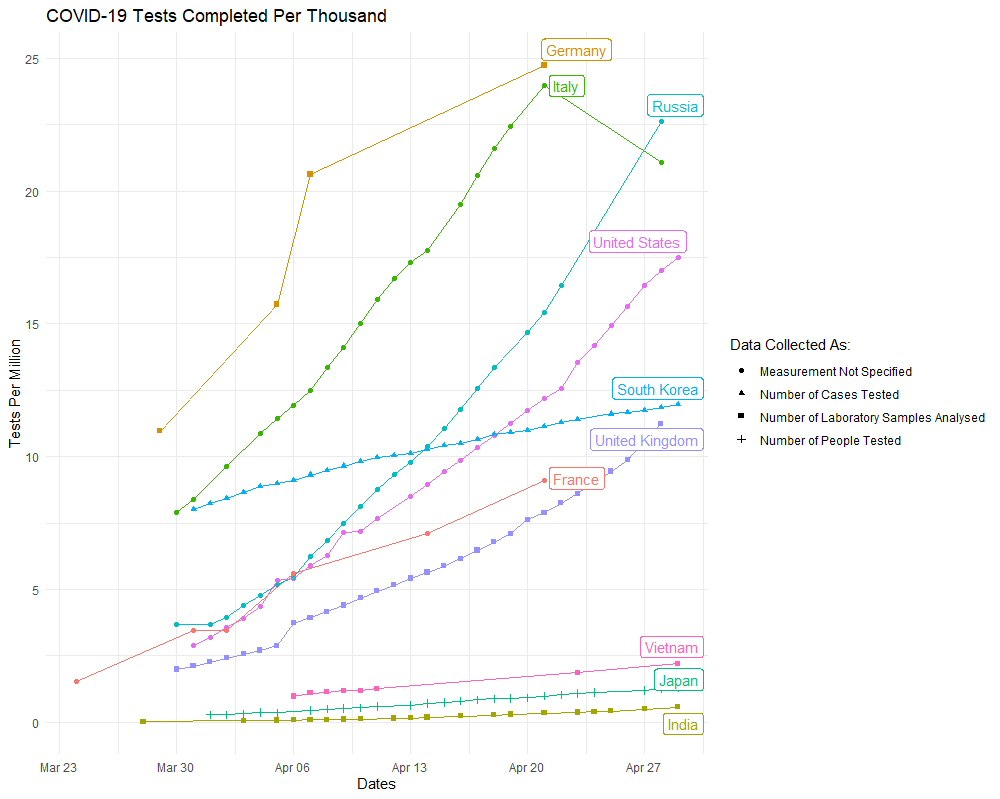
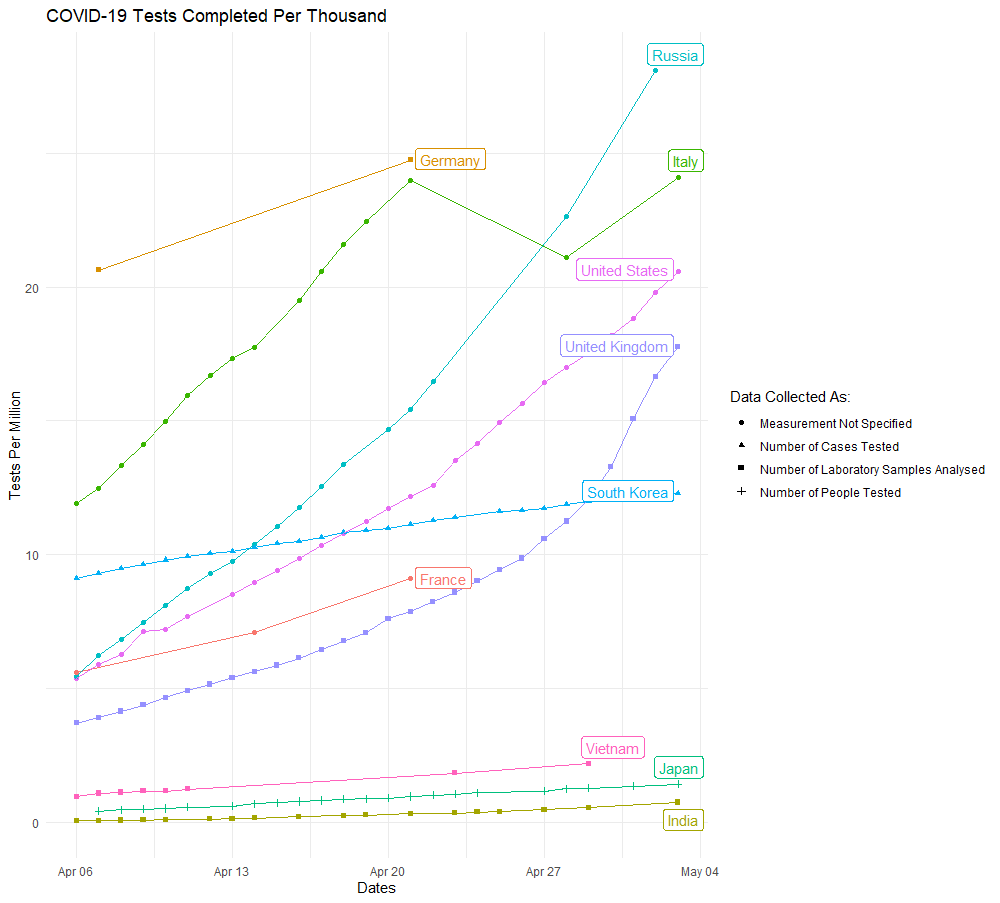
Fixed wrong order columns Fixed Broken code on most websites Need to look at India + Vietnam as still broken + non-scraped websites Australia now not realistic to scrape

diff --git a/Testtrack.py b/Testtrack.py
@@ -10,7 +10,8 @@ except ImportError:
 from PyPDF2 import PdfFileReader
 from googletrans import Translator
 from selenium import webdriver
-from selenium.webdriver.common.keys import Keys
+from selenium.webdriver.common.by import By
+from selenium.webdriver.support import expected_conditions as EC
 from selenium.webdriver.support.ui import WebDriverWait
 
 pytesseract.pytesseract.tesseract_cmd = r'C:\Program Files\Tesseract-OCR\tesseract.exe'
@@ -27,8 +28,7 @@ monthindanish = {
     'juli': 'july'
 }
 # load data, create dictionary
-testdata = pd.read_csv("Testnumbers.csv")
-pages = pd.Series(testdata.Link.values, testdata.Country.values).to_dict()
+
 
 
 # parse dates into datetime and numbers into int
@@ -52,12 +52,12 @@ def TrackChanges(Country):
         soup = BeautifulSoup(page, 'html.parser')
         text = soup.find(id="number-of-cases-and-deaths").next_element.next_element.next_element.string
         testnumber = re.findall('(\d+([\d,]?\d)*(\.\d+)?)', text)[2][0]
-        testdate = re.findall('((\d+) April)', text)[0][0]  # a hack but will work for now
+        testdate = re.findall('((\d+) May)', text)[0][0]  # a hack but will work for now
     if Country == "USA":
         page = urllib.request.urlopen(pages["USA"])
         soup = BeautifulSoup(page, 'html.parser')
         testnumber = soup.find("table").find("tbody").findAll("td")[-1].string
-        testdate = soup.find("div", class_="infobox-module--content--1toLT").string
+        testdate = soup.find("div", class_="infobox-module--content--1toLT").get_text()
     if Country == "SK":
         page = urllib.request.urlopen(pages["SK"])
         soup = BeautifulSoup(page, 'html.parser')
@@ -93,17 +93,20 @@ def TrackChanges(Country):
         page = urllib.request.urlopen(req)
         soup = BeautifulSoup(page, 'lxml')
         testnumber = soup.find("div", class_="fhi-key-figure-number").get_text()
-        testdate = " ".join(soup.find("div", class_="fhi-key-figure-desc").get_text().split(" ")[7:9])
+        print(testnumber)
+        testdate = soup.find("div", class_="fhi-key-figure-updated").get_text()
+        testdate = re.findall('(\d+.*?\d+)', testdate)[0]
+        print(testdate)
     if Country == "DEN":
         page = urllib.request.urlopen(pages["DEN"])
         soup = BeautifulSoup(page, 'html.parser')
         testnumber = soup.findAll("td")[1].get_text()
-        text = ' '.join(soup.findAll("p")[3].get_text().split(" ")[12:14])
-        testdate = ' '.join([monthindanish.get(word, word) for word in text.split()])
+        text = soup.findAll("em")[0].get_text()
+        testdate = search_dates(text)[0][1]
     if Country == "AUST":
         page = urllib.request.urlopen(pages["AUST"])
         soup = BeautifulSoup(page, 'html.parser')
-        text = soup.find("div", class_="table-responsive").find("table").find("tbody").findAll("tr")[-1].findAll("td")[-1].string
+        text = soup.find("div", class_="table-responsive").find("table").findAll("tr")[-1].findAll("td")[-1].get_text()
         print(text)
         testnumber = text
         testdate = soup.find("time").string
@@ -134,14 +137,19 @@ def TrackChanges(Country):
         for test in testnumber:
             if re.match("^[0-9,.]*$", test) != None:
                 testnumber = test
-        testdate = soup.find("p", class_="m-boxInfo__date").find("time")['datetime']
+        #testdate = soup.find("p", class_="m-boxInfo__date").find("time")['datetime']
+        testdate = soup.find("h3", class_="m-hdgLv3__hdg").get_text()
+        testdate = re.findall('（.*?）', testdate)[0] # Japan has different brackets?
+        translator = Translator()
+        testdate = translator.translate(testdate, dest='en').text
+        testdate = search_dates(testdate)[0][1]
     if Country == "CZH":
         page = urllib.request.urlopen(pages["CZH"])
         soup = BeautifulSoup(page, 'html.parser')
         testnumber = soup.find(id="count-test").string
-        text = soup.find(id="last-modified-tests").string.split(" ")
-        testdate = ''.join(text[0:3])
-        testdate = re.sub('[^0-9 .]', '', testdate).strip()
+        text = soup.find(id="last-modified-tests").string
+        testdate = search_dates(text)[0][1]
+        print(testdate)
     if Country == "EST":
         page = urllib.request.urlopen(pages["EST"])
         soup = BeautifulSoup(page, 'html.parser')
@@ -159,25 +167,27 @@ def TrackChanges(Country):
         page = urllib.request.urlopen(pages["LAT"])
         soup = BeautifulSoup(page, 'html.parser')
         text = soup.find("div", class_="formatedtext text").findAll("p")[3].get_text()
-        print(text)
-        testnumber = re.findall('[0-9]+', text)[3]
+        testnumber = re.findall('\d+ \d+', text)[0]
         text = soup.find("div", class_="formatedtext text").find("p").get_text()
         testdate = re.findall('\d+\.\d+\.\d+', text)[0]
+
+        testdate = datetime.datetime.strptime(testdate, '%d.%m.%Y')
     if Country == "LIT":
         page = urllib.request.urlopen(pages["LIT"])
         soup = BeautifulSoup(page, 'html.parser')
-        text = soup.find("div", class_="text").findAll("li")[5].string
+        text = soup.find("div", class_="text").findAll("li")[-2].get_text()
+        print(text)
         testnumber = re.findall('[0-9]+', text)
         testdate = soup.find("div", class_="date").string.split(" ")[3]
-    if Country == "NED":
-        hdr = {'User-Agent': 'Mozilla/5.0'}
-        req = urllib.request.Request(pages["NED"], headers=hdr)
-        page = urllib.request.urlopen(req)
-        soup = BeautifulSoup(page, 'html.parser')
-        text = soup.find("table", id="Corona_tabel").find("tbody").find("tr")
-        testdate = text.findAll("td")[2].string
-        text1 = text.findAll("td")[1].string
-        testnumber = re.findall('\d+\.\d+', text1)[0]
+    # if Country == "NED": #weekly now
+        # hdr = {'User-Agent': 'Mozilla/5.0'}
+        # req = urllib.request.Request(pages["NED"], headers=hdr)
+        # page = urllib.request.urlopen(req)
+        # soup = BeautifulSoup(page, 'html.parser')
+        # text = soup.find("table", id="Corona_tabel").find("tbody").find("tr")
+        # testdate = text.findAll("td")[2].string
+        # text1 = text.findAll("td")[1].string
+        # testnumber = re.findall('\d+\.\d+', text1)[0]
     if Country == "RO":
         page = urllib.request.urlopen(pages["RO"])
         soup = BeautifulSoup(page, 'html.parser')
@@ -207,26 +217,27 @@ def TrackChanges(Country):
         soup = BeautifulSoup(html, 'html.parser')
         text = soup.find("div", attrs={"data-id":"5eb267c9"}).get_text()
         testdate = re.findall('\d+\.\d+\.\d+', text)[0]
-        print(testdate)
         testdate = datetime.datetime.strptime(testdate, '%d.%m.%Y')
-        text = soup.find("div", attrs={"data-id":"6bfc932d"}).get_text()
-        print(text)
-        testnumber = re.findall('\d+\.\d+', text)[-1]
+        testnumber = soup.find("div", attrs={"data-id":"6bfc932d"}).get_text()
     if Country == "SVK":
-        page = urllib.request.urlopen(pages["SVK"])
-        soup = BeautifulSoup(page, 'html.parser')
-        text = json.loads(str(soup))
-        testnumber = int(text["tiles"]["k5"]["data"]["d"][-1]["v"]) + int(text["tiles"]["k6"]["data"]["d"][-1]["v"])
-        testdate = list(text["tiles"]["k5"]["data"]["d"][-1]["d"])[-3:]
-        testdate.insert(1, '/')
-        testdate = ''.join(testdate)
+        driver = webdriver.Chrome()
+        driver.get(pages["SVK"])
+        driver.implicitly_wait(100)
+        html = str(driver.find_elements_by_tag_name("html")[0].get_attribute('innerHTML'))
+        soup = BeautifulSoup(html, 'html.parser')
+        testnumber = soup.find("h3", class_="govuk-heading-l govuk-!-margin-bottom-3").get_text()
+        print(testnumber)
+        testdate = soup.find("p", class_="govuk-body").get_text()
+        testdate = search_dates(testdate)[0][1]
+        print(testdate)
+
     if Country == "SLI":
         page = urllib.request.urlopen(pages["SLI"])
         soup = BeautifulSoup(page, 'html.parser')
-        text = soup.findAll("div", class_="field-item even")[2].find("p").string
-        test = re.findall('[0-9. ]+', text)
-        testdate = ''.join(test[0])
-        testnumber = ''.join(test[5]).strip()
+        text = soup.findAll("div", class_="field-item even")[2].find("p").get_text()
+        testnumber = re.findall('(\d+\.\d+ )(?=testiranj)', text)[0]
+        testdate = re.findall('\d+\. \d+\. \d+', text)[0]
+        testdate = datetime.datetime.strptime(testdate, '%d. %m. %Y')
     if Country == "SWI":
         page = urllib.request.urlopen(pages["SWI"])
         soup = BeautifulSoup(page, 'html.parser')
@@ -244,7 +255,7 @@ def TrackChanges(Country):
             if words[i] == "Stand" and not done:
                 testdate = ''.join(words[i + 1:i + 4])
                 done = True
-    if Country == "AUS":
+    if Country == "AUS": #Australia has some weird API now doesn't seem to be particularly easy to automate
         page = urllib.request.urlopen(pages["AUS"])
         soup = BeautifulSoup(page, 'html.parser')
         text = soup.find("div", class_="bean-block-content").findAll("p")
@@ -274,25 +285,27 @@ def TrackChanges(Country):
         text = testdate.replace('&nbsp;', ' ')
         testdate = search_dates(text)[0][1]
     if Country == "IND":  # certificate verify failed: unable to get local issuer certificate (_ssl.c:1108)
-        driver = webdriver.Chrome()
+        driver = webdriver.Chrome() #Needs work, bloked atm
         driver.get(pages["IND"])
-        driver.implicitly_wait(100)
-        soup = BeautifulSoup(driver.page_source, 'html.parser')
-        testdate = search_dates(soup.find("a", string=re.compile("Testing: Status Update")).get_text())[0][1]
-        url = soup.find("a", string=re.compile("Testing: Status Update"))['href']
-        pages["IND"] = url
-        urllib.request.urlretrieve(url, 'doc.pdf')
-        pdf = PdfFileReader('doc.pdf')
-        page = pdf.getPage(0)
-        words = page.extractText()
-        words = re.findall('(?<=of)(((\d+)|(,)|(\s+))+)(?=samples)', words)[0][0]
-        testnumber = re.sub('\s+', "", words)
+        try:
+            element = WebDriverWait(driver, 10).until(
+                EC.presence_of_element_located((By.CLASS_NAME, "counter"))
+            )
+        finally:
+            driver.quit()
+        html = str(driver.find_elements_by_tag_name("html")[0].get_attribute('innerHTML'))
+        soup = BeautifulSoup(html, 'html.parser')
+        testnumber = soup.find("div", class_="scf-text").find("span", class_="counter").string
+        print(test)
+        testdate = search_dates(soup.find("div", class_="elements-title mb-30").find("h2").string)
+        print(testdate)
     if Country == "NZ":
         page = urllib.request.urlopen(pages["NZ"])
         soup = BeautifulSoup(page, 'html.parser')
-        testtable = pd.read_html(str(soup.find("th", string="Lab Testing").parent.parent.parent))[0]
-        testnumber = testtable.loc[testtable["Lab Testing"] == "Total tested to date", ["Tests"]].values[0]
-        testdate = testtable.loc[testtable["Lab Testing"] == "Total tested yesterday", ["Date"]].values[0]
+        heading = soup.find("th", string="Total tested to date").parent
+        testnumber = heading.find("td").string
+        testdate = heading.findAll("td")[-1].string
+        testdate = search_dates(testdate)[1][1]
     if Country == "VET":  # might also need selenium
         driver = webdriver.Chrome()
         driver.get(pages["VET"])
@@ -321,6 +334,17 @@ def adddata(country, date, number):
         if datestring not in testdata.columns:
 
             testdata.insert(6, datestring, np.nan)
+        # Make sure columns are sorted properly
+        datecolumns = testdata.iloc[:, 6:-1].columns
+        dates_list = [datetime.datetime.strptime(date, '%d/%m/%Y').date() for date in datecolumns]
+        if dates_list.sort(reverse=True) != dates_list:
+            dates_list.sort(reverse=True)
+            namecolumns = testdata.iloc[:, 0:6].columns
+            datecolumns = [date_obj.strftime('%d/%m/%Y') for date_obj in dates_list]
+            columns = list(namecolumns) + datecolumns
+            newdata = testdata[columns]
+            newdata.to_csv("Testnumbers.csv", index=False)
+
         empty = math.isnan(testdata.loc[testdata["Country"] == country, [datestring]].values[0])
         lastvalue = testdata.loc[testdata["Country"] == country]
         lastvalue = lastvalue.iloc[:, 6:-1].max(axis=1, numeric_only=True).values[0]
@@ -397,5 +421,7 @@ def mainquery():
 
 
 if __name__ == '__main__':
+    testdata = pd.read_csv("Testnumbers.csv")
+    pages = pd.Series(testdata.Link.values, testdata.Country.values).to_dict()
     mainquery()
     print("Completed.")

diff --git a/README.md b/README.md
@@ -39,7 +39,7 @@ Whilst this does make it difficult to compare different country's testing effort
 | Germany        | Robert Koch Institute                                                                      | https://www.rki.de/DE/Content/InfAZ/N/Neuartiges_Coronavirus/Situationsberichte/Gesamt.html                                                                                                            | Tempremental       |
 | Hungary        | Hungarian Government                                                                       | https://koronavirus.gov.hu/                                                                                                                                                                            | Daily              |
 | Iceland        | Icelandic Governmet                                                                        | https://e.infogram.com/e3205e42-19b3-4e3a-a452-84192884450d?parent_url=https%3A%2F%2Fwww.covid.is%2Fdata&src=embed#                                                                                    | Daily              |
-| India          | Indian Council of Medical Research                                                         | https://www.icmr.nic.in/content/covid-19                                                                                                                                                               | Daily              |
+| India          | Indian Council of Medical Research                                                         | https://www.icmr.gov.in/                                                                                                                                                               | Daily              |
 | Italy          | Italian Department of Civil Protection                                                     | https://github.com/pcm-dpc/COVID-19/tree/master/schede-riepilogative/regioni                                                                                                                           | Daily              |
 | Japan          | Japanese Minsitry of Health, Labour and Welfare                                            | https://www.mhlw.go.jp/stf/houdou/index.html                                                                                                                                                           | Daily              |
 | Latvia         | Latvian Centre for Disease Prevention and Control                                          | https://arkartassituacija.gov.lv/                                                                                                                                                                      | Daily              |
